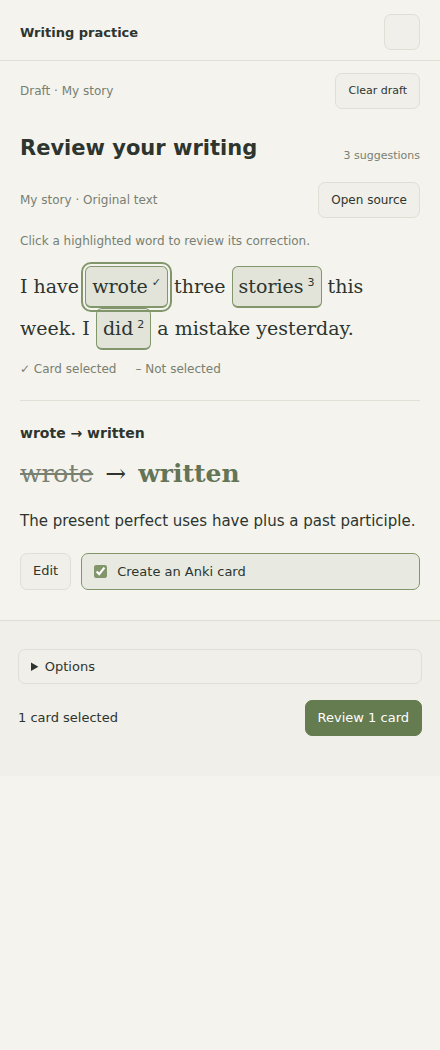
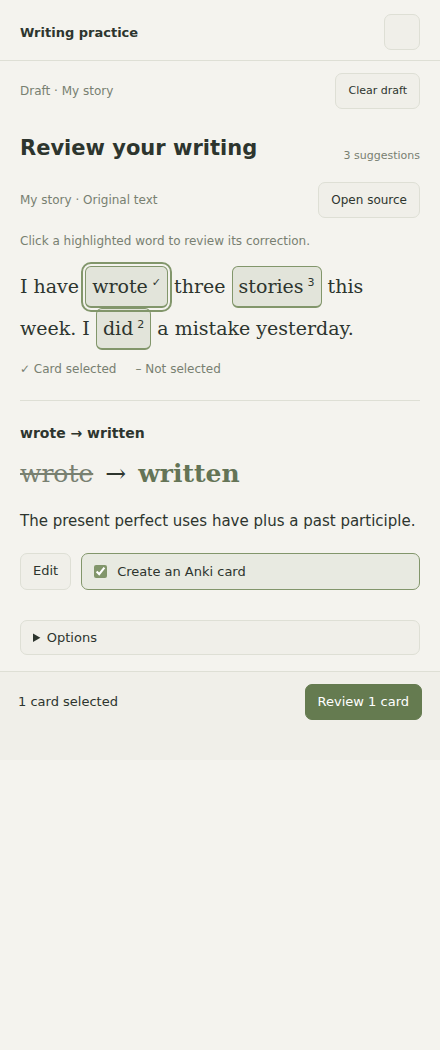
Open writing options inline above a stable action bar

Changed region(s): [[0.0295, 0.579, 0.2659, 0.701], [0.6795, 0.64, 0.975, 0.701]]

diff --git a/src/writing-view.ts b/src/writing-view.ts
@@ -639,15 +639,37 @@ export class WritingView extends ItemView {
       body.createEl('p', { text: 'No cards selected. Return to corrections to keep one.' });
   }
   private renderFooter(root: HTMLElement, s: WritingSession) {
-    const footer = root.createDiv({ cls: 'cc-footer' }),
-      busy = s.phase !== 'idle';
-    const options = this.section(footer, 'options', 'Options');
+    const busy = s.phase !== 'idle';
+    const area = root.createDiv({ cls: 'cc-writing-options' });
+    const options = this.section(area, 'options', 'Options');
+    const syncDestination = () => {
+      const label = root.querySelector<HTMLElement>('[data-writing-destination]');
+      if (!label) return;
+      const count = this.pending(s).length;
+      label.textContent = options.open
+        ? `${count} ${count === 1 ? 'card' : 'cards'} selected`
+        : s.deck;
+      label.title = options.open ? '' : s.deck;
+    };
+    options.addEventListener('toggle', () => {
+      if (options.isConnected) {
+        this.sections.set('options', options.open);
+        syncDestination();
+      }
+    });
+    options.querySelector('summary')!.addEventListener('click', () => {
+      requestAnimationFrame(() => {
+        if (options.isConnected && options.open) options.scrollIntoView({ block: 'nearest' });
+      });
+    });
     this.field(options, 'Writing deck', s.deck, 'deck', s, (v) => {
       s.deck = v;
+      syncDestination();
     });
     this.button(options, 'Recheck selection', () => {
       void this.host.writing.analyse(s);
     }).disabled = busy || s.findings.some((f) => !!f.noteId);
+    const footer = root.createDiv({ cls: 'cc-footer' });
     const actions = footer.createDiv({ cls: 'cc-writing-footer-actions' }),
       pending = this.pending(s);
     if (this.screen === 'done') return;
@@ -661,7 +683,13 @@ export class WritingView extends ItemView {
       return;
     }
     if (this.screen === 'preview') {
-      actions.createSpan({ cls: 'cc-muted', text: s.deck, attr: { title: s.deck } });
+      actions.createSpan({
+        cls: 'cc-muted',
+        text: options.open
+          ? `${pending.length} ${pending.length === 1 ? 'card' : 'cards'} selected`
+          : s.deck,
+        attr: { title: options.open ? '' : s.deck, 'data-writing-destination': '' },
+      });
       const valid = pending.length > 0 && pending.every((f) => this.valid(f));
       this.button(
         actions,

diff --git a/tests/ui/writing-audit.spec.ts b/tests/ui/writing-audit.spec.ts
@@ -96,6 +96,38 @@ test('saving only card feedback returns to previews without another preparation 
 for (const size of [
   { width: 320, height: 520 },
   { width: 390, height: 720 },
+]) {
+  test(`options open inline without enlarging the action bar at ${size.width}x${size.height}`, async ({
+    page,
+  }) => {
+    await page.setViewportSize(size);
+    await page.goto('/?writing=1');
+    await page.getByRole('button', { name: 'Review 2 cards', exact: true }).click();
+    const footer = page.locator('.cc-footer'),
+      options = page.locator('[data-writing-section=options]');
+    const before = (await footer.boundingBox())!.height;
+    await options.locator('summary').click();
+    await expect(options).toHaveAttribute('open', '');
+    await expect
+      .poll(async () => {
+        const r = await options.boundingBox();
+        const f = await footer.boundingBox();
+        return !!r && !!f && r.y >= 0 && r.y + r.height <= f.y + 1;
+      })
+      .toBe(true);
+    expect(Math.abs((await footer.boundingBox())!.height - before)).toBeLessThan(2);
+    await expect(footer.locator('details')).toHaveCount(0);
+    await expect(footer.getByText('2 cards selected', { exact: true })).toBeVisible();
+    if (size.width === 390)
+      await page.screenshot({ path: '.test-artifacts/writing-options-inline.png' });
+    await page.getByLabel('Writing deck', { exact: true }).fill('English::My new deck');
+    await options.locator('summary').click();
+    await expect(footer.getByText('English::My new deck', { exact: true })).toBeVisible();
+  });
+}
+for (const size of [
+  { width: 320, height: 520 },
+  { width: 390, height: 720 },
   { width: 600, height: 900 },
 ]) {
   test(`vocabulary actions remain reachable at ${size.width}x${size.height}`, async ({ page }) => {

diff --git a/styles.css b/styles.css
@@ -653,6 +653,15 @@
   gap: 12px;
   flex-wrap: wrap;
 }
+.cc-writing-options {
+  padding: 0 20px 16px;
+}
+.cc-writing-workflow .cc-writing-options > .cc-section {
+  margin: 0;
+}
+.cc-writing-options .cc-field {
+  margin-top: 16px;
+}
 .cc-writing-footer-actions > span {
   flex: 1 1 120px;
   max-width: 100%;

diff --git a/docs/SETUP.md b/docs/SETUP.md
@@ -227,7 +227,7 @@ Writing practice is a separate mode. Existing vocabulary capture still works wit
 4. Beside **Edit**, the **Create an Anki card** checkbox controls whether this correction is included in the batch. Grammar and vocabulary corrections are checked by default after analysis; optional style, unclear meaning and typos stay unchecked. Uncheck any card you do not want. The label stays the same and the current word stays open. Saved choices are preserved when reopening a review. Exercises are prepared only when you click **Review N cards** below.
 5. Click **Edit** to change a correction. Changes apply only after **Save changes**; **Cancel** discards them. **More details** contains the tip, issue metadata, exercise type and prepared card fields. Changing the underlying correction invalidates its exercise. Typing keeps focus.
 6. Click **Review N cards** to prepare the selected exercises. Review their questions and answers together, then **Add N cards to Anki**. This saves the review and exports the batch. **← Corrections** returns to the original text without losing your choices; uncheck **Create an Anki card** there to exclude a correction. You can review your current selection before deciding on every suggestion.
-7. **Options** in the footer contains the writing deck and **Recheck selection**. The review selector appears at the top only when there is more than one review. When all corrections are excluded, **Finish review** completes the review without exporting cards.
+7. **Options**, above the bottom action bar, contains the writing deck and **Recheck selection**. It opens inline and scrolls into view without expanding the pinned action bar over your cards. The review selector appears at the top only when there is more than one review. When all corrections are excluded, **Finish review** completes the review without exporting cards.
 
 Optional style, unclear meaning and obvious typos cannot become practice cards. If the meaning is unclear, resolve it yourself before classifying the finding as a definite grammar/vocabulary correction.
 
